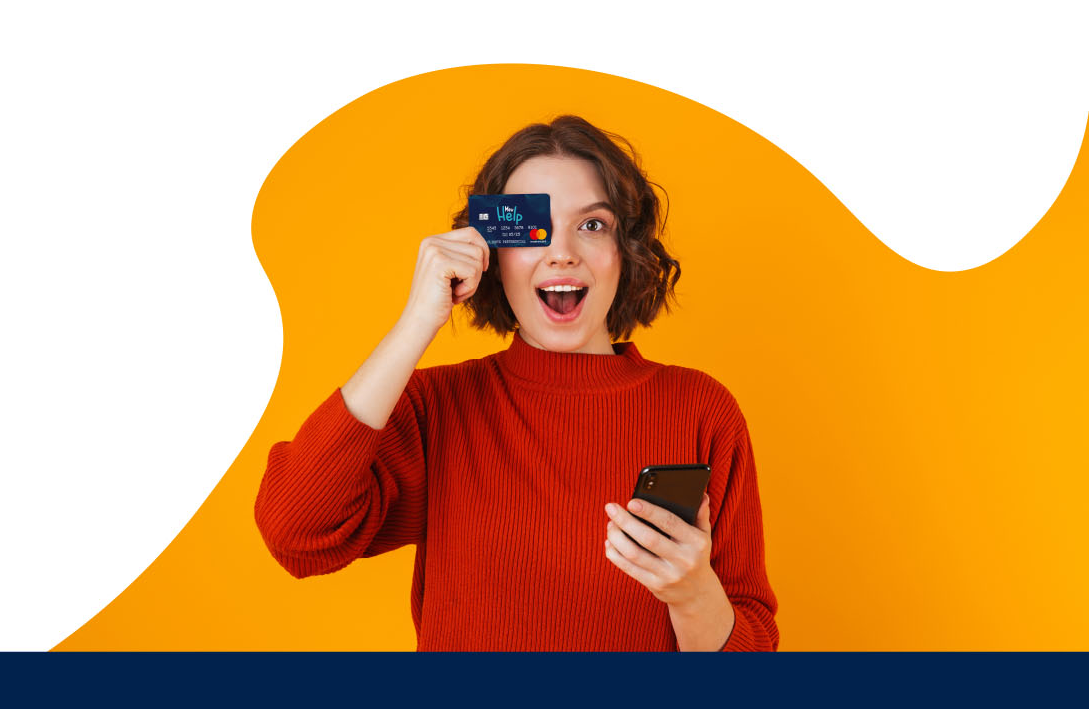
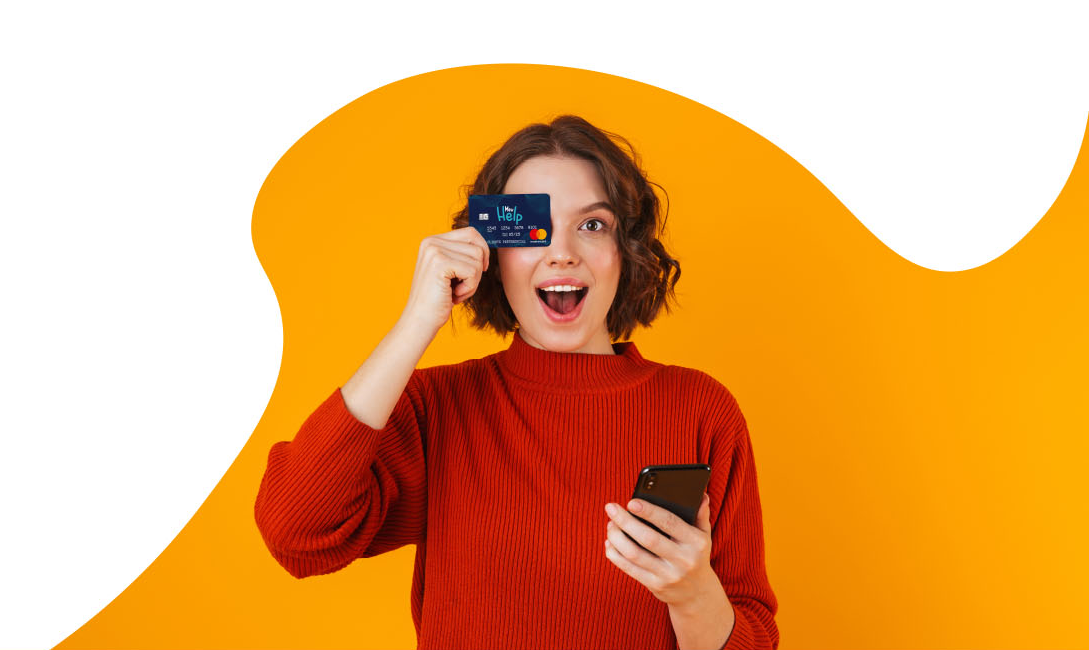
Adicionando imagem inferior para realamente terminar o layout da página

diff --git a/css/parceiros.css b/css/parceiros.css
@@ -41,3 +41,10 @@ main h1{
 
     color: var(--azulEscuro);
 }
+
+.container-bottom-img{
+    width: 100%;
+
+    display: flex;
+    justify-content: flex-end;
+}

diff --git a/parceiros.php b/parceiros.php
@@ -78,6 +78,11 @@
         </div>
     </main>
 
+    <div class="container-bottom-img">
+        <img src="img/imagens/img3.png" alt="">
+    </div>
+    
+
     <!-- Footer -->
     <?php 
         getFooter();

diff --git a/README.md b/README.md
@@ -15,7 +15,7 @@ Site do MeuHelp
 
 * [x] Página beneficios
 
-* [ ] Página parceiros
+* [x] Página parceiros
 
 ## To do list mobile
 
